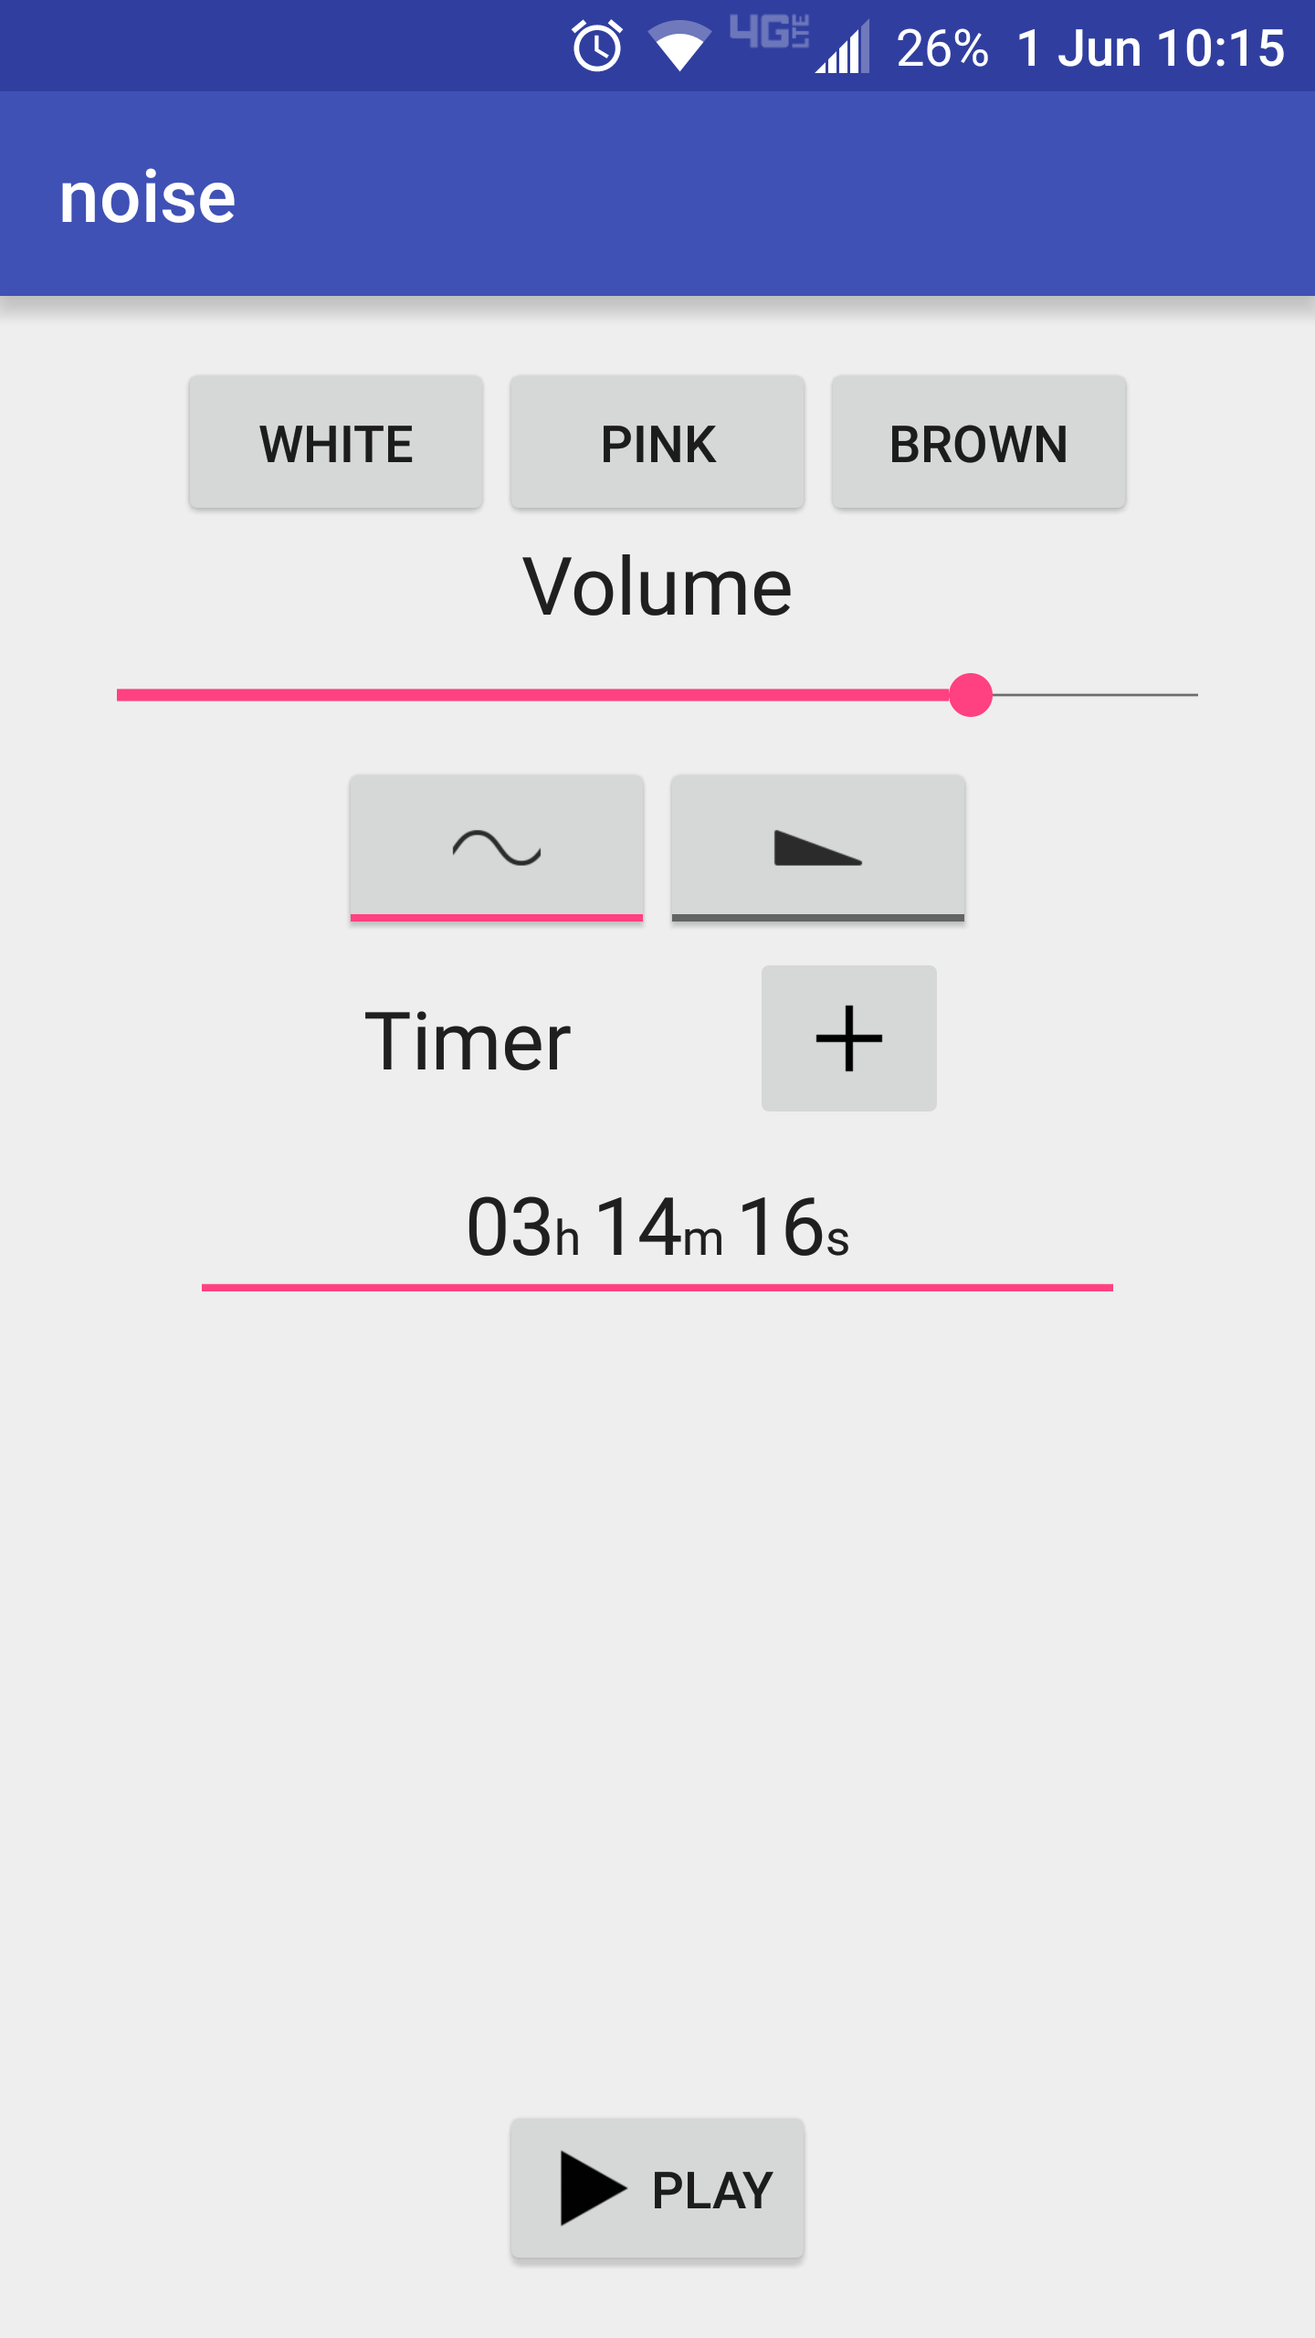
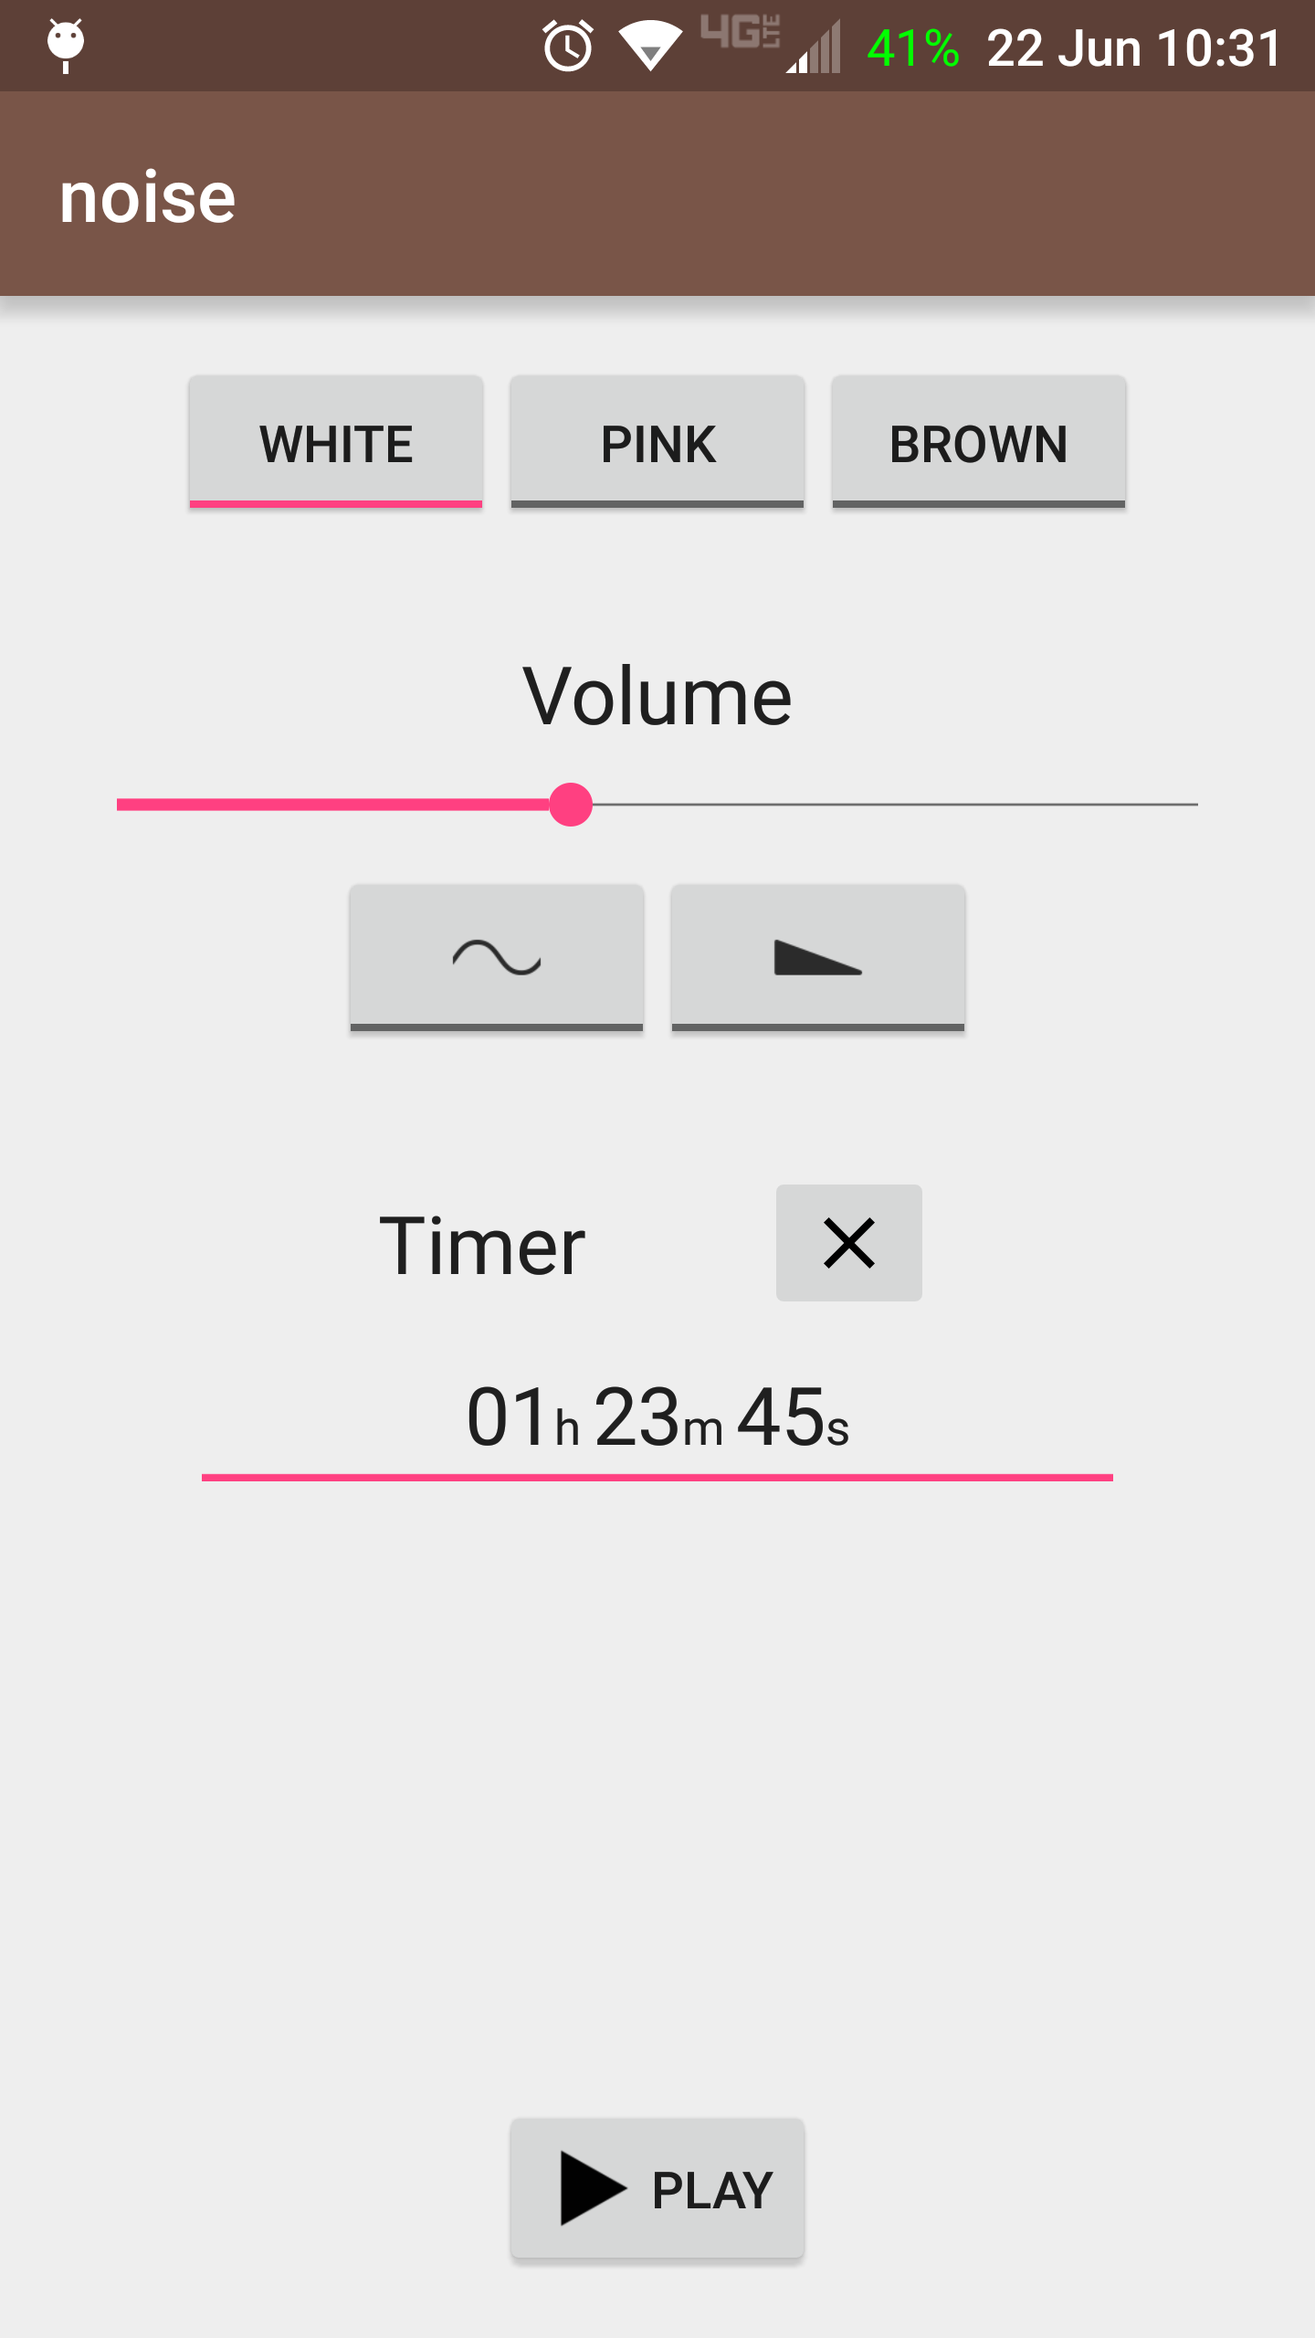
Fixed some issues with notifications. Notifications seems to be working correctly now.

diff --git a/app/src/main/java/dalbers/com/noise/AudioPlayerService.java b/app/src/main/java/dalbers/com/noise/AudioPlayerService.java
@@ -1,27 +1,20 @@
 package dalbers.com.noise;
 
-import android.app.Activity;
 import android.app.Notification;
 import android.app.NotificationManager;
 import android.app.PendingIntent;
 import android.app.Service;
-import android.content.ComponentName;
 import android.content.Context;
 import android.content.Intent;
 import android.graphics.Bitmap;
 import android.graphics.BitmapFactory;
-import android.media.session.MediaSession;
 import android.os.Binder;
-import android.os.Build;
-import android.os.Bundle;
 import android.os.CountDownTimer;
 import android.os.Handler;
 import android.os.IBinder;
 import android.os.Looper;
-import android.support.v4.media.session.MediaSessionCompat;
 import android.support.v7.app.NotificationCompat;
 import android.util.Log;
-import android.widget.RemoteViews;
 
 import java.util.Timer;
 import java.util.TimerTask;
@@ -53,7 +46,13 @@ public class AudioPlayerService extends Service {
     private float maxVolume = 1.0f;
     private float initialVolume = 1.0f;
     private Notification notification;
-    private MediaSessionCompat mediaSession;
+    /**
+     * Used when showing the notification,
+     * unique within the app,
+     * if multiple notify()s are called with the same id,
+     * new one will replace the old ones
+     */
+    private final int NOTIFICATION_ID = 0;
     @Override
     public IBinder onBind(Intent intent) {
         if(mp == null) {
@@ -66,7 +65,6 @@ public class AudioPlayerService extends Service {
     {
         volumeChangerTimer = new Timer();
         volumeChangerTimer.schedule(new VolumeChangerTimerTask(), 0, tickPeriod);
-        mediaSession = new MediaSessionCompat(this,"white noise");
     }
     public void onDestroy()
     {
@@ -74,11 +72,33 @@ public class AudioPlayerService extends Service {
     }
 
     public int onStartCommand(Intent intent,int flags, int startId){
-        mp = LoopMediaPlayer.create(this, R.raw.white);
-        if(intent.hasExtra("DO")) {
-            String action = (String) intent.getExtras().get("DO");
+        if(mp == null)
+            mp = LoopMediaPlayer.create(this, R.raw.white);
+        //if a button is pressed in the notification,
+        //the service will be started with this extra
+        if(intent.hasExtra("do")) {
+            String action = (String) intent.getExtras().get("do");
             if (action.equals("pause")) {
-               Log.d(LOG_TAG,"paused");
+                Log.d(LOG_TAG, "paused");
+                pause();
+                //there's no way to pause the timer
+                //just cancel it and start a new one if play is pressed
+                cancelTimer();
+                showNotification(false);
+            }
+            else if (action.equals("play")) {
+                Log.d(LOG_TAG, "playing");
+                play();
+                //there was a timer before pause was pressed
+                //start it again with the leftover time
+                if(millisLeft > 0)
+                    setTimer(millisLeft);
+                showNotification(true);
+            }
+            else if (action.equals("close")) {
+                stop();
+                stopTimer();
+                ((NotificationManager) this.getSystemService(Context.NOTIFICATION_SERVICE)).cancelAll();
             }
         }
 
@@ -101,6 +121,14 @@ public class AudioPlayerService extends Service {
         //reset volumes to initial values
         leftVolume = initialVolume;
         rightVolume = initialVolume;
+    }
+
+    public void pause() {
+        if(mp != null)
+            mp.pause();
+        //reset volumes to initial values
+//        leftVolume = initialVolume;
+//        rightVolume = initialVolume;
     }
 
     public boolean isPlaying() {
@@ -141,6 +169,7 @@ public class AudioPlayerService extends Service {
 
     public void setTimer(final long millis) {
         millisLeft = millis;
+        decreaseLength = millis;
         if(countDownTimer != null)
             countDownTimer.cancel();
         countDownTimer = new CountDownTimer(millis, 1000) {
@@ -162,9 +191,16 @@ public class AudioPlayerService extends Service {
         }
     }
 
+    public void stopTimer() {
+        cancelTimer();
+        decreaseLength = -1;
+        millisLeft = 0;
+    }
+
     public long getTimeLeft() {
         return millisLeft;
     }
+
 
     public void setSoundFile(int resId) {
         mp.setSoundFile(resId);
@@ -288,8 +324,13 @@ public class AudioPlayerService extends Service {
         }
     }
 
-    public void showNotificationWidget() {
+    /**
+     * Show a notification with information about the sound being played/paused
+     * and a pause button which will callback to this service
+     */
+    public void showNotification(boolean playing) {
         String title;
+        //which noise is playing?
         switch (mp.getSoundFile())
         {
             case R.raw.white:
@@ -304,22 +345,54 @@ public class AudioPlayerService extends Service {
             default:
                 title = "Noise";
         }
+        //TODO: use actual app icon
         Bitmap icon = BitmapFactory.decodeResource(this.getResources(),
                 R.drawable.ic_action_add);
-        Intent volume = new Intent(this,AudioPlayerService.class);
-        volume.putExtra("DO", "pause");
-        PendingIntent btn1 = PendingIntent.getService(this, 0, volume, 0);
-        notification = new NotificationCompat.Builder(this)
-                .setSmallIcon(R.drawable.ic_add)
-                .setContentTitle(title)
-                .setContentText("Playing in Noise App")
-                .setLargeIcon(icon)
-                .setStyle(new NotificationCompat.MediaStyle())
-                .setOngoing(true)
-                .addAction(R.drawable.ic_add,"add",btn1)
-                .build();
+        //make an intent to callback this service when the pause button is pressed
+
+        //create the notification
+        if(playing) {
+            Intent pausePlayIntent = new Intent(this,AudioPlayerService.class);
+            pausePlayIntent.putExtra("do", "pause");
+            PendingIntent pausePlayPI = PendingIntent.getService(this, 0, pausePlayIntent, PendingIntent.FLAG_ONE_SHOT);
+            Intent closeIntent = new Intent(this,AudioPlayerService.class);
+            closeIntent.setAction("close");
+            closeIntent.putExtra("do", "close");
+            PendingIntent closePI = PendingIntent.getService(this, 0, closeIntent, PendingIntent.FLAG_ONE_SHOT);
+            notification = new NotificationCompat.Builder(this)
+                    .setSmallIcon(R.drawable.ic_add)
+                    .setContentTitle(title)
+                    .setContentText("Playing in Noise App")
+                    .setLargeIcon(icon)
+                    .setStyle(new NotificationCompat.MediaStyle())
+                    .setOngoing(true)
+                    .addAction(R.drawable.ic_action_playback_pause_black, "Pause", pausePlayPI)
+                    .addAction(R.drawable.ic_clear, "Close", closePI)
+                    .build();
+        }
+        else {
+            Intent pausePlayIntent = new Intent(this,AudioPlayerService.class);
+            pausePlayIntent.setAction("play");
+            pausePlayIntent.putExtra("do", "play");
+            PendingIntent pausePlayPI = PendingIntent.getService(this, 0, pausePlayIntent, PendingIntent.FLAG_ONE_SHOT);
+            Intent closeIntent = new Intent(this,AudioPlayerService.class);
+            closeIntent.setAction("close");
+            closeIntent.putExtra("do", "close");
+            PendingIntent closePI = PendingIntent.getService(this, 0, closeIntent, PendingIntent.FLAG_ONE_SHOT);
+            notification = new NotificationCompat.Builder(this)
+                    .setSmallIcon(R.drawable.ic_add)
+                    .setContentTitle(title)
+                    .setContentText("Paused in Noise App")
+                    .setLargeIcon(icon)
+                    .setStyle(new NotificationCompat.MediaStyle())
+                    .setOngoing(true)
+                    .addAction(R.drawable.ic_action_playback_play_black, "Play", pausePlayPI)
+                    .addAction(R.drawable.ic_clear, "Close", closePI)
+                    .build();
+        }
+        //show the notification
         NotificationManager nManager = (NotificationManager) this.getSystemService(Context.NOTIFICATION_SERVICE);
-        nManager.notify(2, notification);
+        nManager.notify(NOTIFICATION_ID, notification);
     }
 
 }

diff --git a/app/src/main/java/dalbers/com/noise/MainActivity.java b/app/src/main/java/dalbers/com/noise/MainActivity.java
@@ -1,14 +1,10 @@
 package dalbers.com.noise;
 
-import android.app.Notification;
-import android.app.PendingIntent;
 import android.content.ComponentName;
 import android.content.Context;
 import android.content.Intent;
 import android.content.ServiceConnection;
 import android.content.res.Resources;
-import android.graphics.Bitmap;
-import android.graphics.BitmapFactory;
 import android.graphics.drawable.Drawable;
 import android.media.session.MediaSession;
 import android.net.Uri;
@@ -16,7 +12,6 @@ import android.os.Bundle;
 import android.os.CountDownTimer;
 import android.os.IBinder;
 import android.support.v7.app.AppCompatActivity;
-import android.support.v7.app.NotificationCompat;
 import android.text.Editable;
 import android.text.Spannable;
 import android.text.SpannableString;
@@ -281,13 +276,9 @@ public class MainActivity extends AppCompatActivity {
                         //set cursor in text view to last character
                         countdownTimeTextView.setSelection(countdownTimeTextView.getText().length());
                     } else {
-                        //set button image
-                        Drawable addPic = getResources().getDrawable(R.drawable.ic_add);
-                        timerButton.setImageDrawable(addPic);
-
                         addedTimer = false;
-                        //hide text view and hide keyboard
-                        countdownTimeTextView.setVisibility(View.INVISIBLE);
+                        setTimerUIUnsetState();
+                        //hide keyboard
                         imm.hideSoftInputFromWindow(countdownTimeTextView.getWindowToken(), 0);
                         stopTimer();
                         //if playing audio, set button to play
@@ -299,6 +290,14 @@ public class MainActivity extends AppCompatActivity {
         // ATTENTION: This was auto-generated to implement the App Indexing API.
         // See https://g.co/AppIndexing/AndroidStudio for more information.
         client = new GoogleApiClient.Builder(this).addApi(AppIndex.API).build();
+    }
+
+    private void setTimerUIUnsetState() {
+        //set button image
+        Drawable addPic = getResources().getDrawable(R.drawable.ic_add);
+        timerButton.setImageDrawable(addPic);
+        //hide time
+        countdownTimeTextView.setVisibility(View.INVISIBLE);
     }
 
     private ServiceConnection playerConnection = new ServiceConnection() {
@@ -470,6 +469,7 @@ public class MainActivity extends AppCompatActivity {
             public void onFinish() {
                 countdownTimeTextView.setText(millisToHMSZeros(0));
                 setPlayButtonPlay();
+                setTimerUIUnsetState();
             }
         };
         audioPlayerService.setTimer(time);
@@ -482,12 +482,15 @@ public class MainActivity extends AppCompatActivity {
         audioPlayerService.cancelTimer();
     }
 
+    /**
+     * pause the timer and set the time to zero
+     */
     private void stopTimer() {
-        //pause the timer and set the time to zero
         pauseTimer();
         if (audioPlayerService != null)
             audioPlayerService.stop();
         countdownTimeTextView.setText(stringToFormattedHMS(millisToHMSZeros(0)));
+        setTimerUIUnsetState();
     }
 
     private void setPlayButtonPause() {
@@ -495,6 +498,7 @@ public class MainActivity extends AppCompatActivity {
         playPic.setBounds(0, 0, 120, 120);
         playButton.setCompoundDrawables(playPic, null, null, null);
         playButton.setText("Pause");
+        audioPlayerService.showNotification(true);
     }
 
     private void setPlayButtonPlay() {
@@ -502,46 +506,43 @@ public class MainActivity extends AppCompatActivity {
         playPic.setBounds(0, 0, 120, 120);
         playButton.setCompoundDrawables(playPic, null, null, null);
         playButton.setText("Play");
-        audioPlayerService.showNotificationWidget();
     }
 
     @Override
     public void onStart() {
         super.onStart();
-
-        // ATTENTION: This was auto-generated to implement the App Indexing API.
-        // See https://g.co/AppIndexing/AndroidStudio for more information.
-        client.connect();
-        Action viewAction = Action.newAction(
-                Action.TYPE_VIEW, // TODO: choose an action type.
-                "Main Page", // TODO: Define a title for the content shown.
-                // TODO: If you have web page content that matches this app activity's content,
-                // make sure this auto-generated web page URL is correct.
-                // Otherwise, set the URL to null.
-                Uri.parse("http://host/path"),
-                // TODO: Make sure this auto-generated app URL is correct.
-                Uri.parse("android-app://dalbers.com.noise/http/host/path")
-        );
-        AppIndex.AppIndexApi.start(client, viewAction);
+        setUIBasedOnServiceState();
     }
 
+    private void setUIBasedOnServiceState() {
+        if(audioPlayerService != null) {
+            //sync up play state
+            if(audioPlayerService.isPlaying())
+                setPlayButtonPause();
+            else
+                setPlayButtonPlay();
+            //sync up timer
+            long timeLeft = audioPlayerService.getTimeLeft();
+            //still time left
+            if(timeLeft > 0) {
+                //match the visual timer to the service timer
+                if(audioPlayerService.isPlaying())
+                    startTimer(timeLeft);
+                else //cancel the visual timer since the service timer is also
+                    pauseTimer();
+            }
+            else {
+                //kill the timer just to make sure
+                pauseTimer();
+                countdownTimeTextView.setText(stringToFormattedHMS(millisToHMSZeros(0)));
+                setTimerUIUnsetState();
+            }
+
+        }
+    }
     @Override
     public void onStop() {
         super.onStop();
-
-        // ATTENTION: This was auto-generated to implement the App Indexing API.
-        // See https://g.co/AppIndexing/AndroidStudio for more information.
-        Action viewAction = Action.newAction(
-                Action.TYPE_VIEW, // TODO: choose an action type.
-                "Main Page", // TODO: Define a title for the content shown.
-                // TODO: If you have web page content that matches this app activity's content,
-                // make sure this auto-generated web page URL is correct.
-                // Otherwise, set the URL to null.
-                Uri.parse("http://host/path"),
-                // TODO: Make sure this auto-generated app URL is correct.
-                Uri.parse("android-app://dalbers.com.noise/http/host/path")
-        );
-        AppIndex.AppIndexApi.end(client, viewAction);
         client.disconnect();
     }
 }

diff --git a/app/src/main/java/dalbers/com/noise/LoopMediaPlayer.java b/app/src/main/java/dalbers/com/noise/LoopMediaPlayer.java
@@ -57,6 +57,11 @@ public class LoopMediaPlayer {
             mCurrentPlayer.stop();
     }
 
+    public void pause() {
+        if(mCurrentPlayer != null)
+            mCurrentPlayer.pause();
+    }
+
     public void play() {
         mCurrentPlayer = MediaPlayer.create(mContext, mResId);
         mCurrentPlayer.setOnPreparedListener(new MediaPlayer.OnPreparedListener() {
